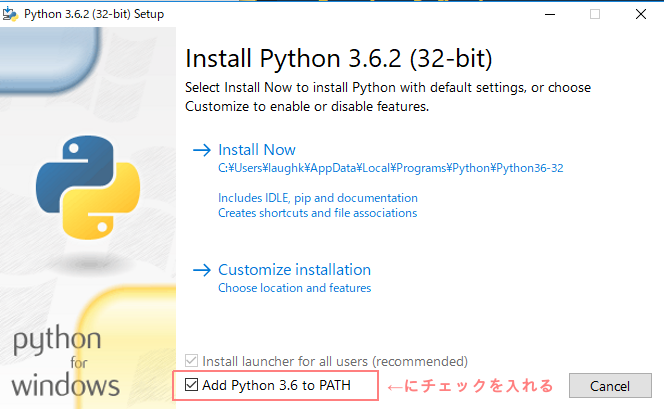
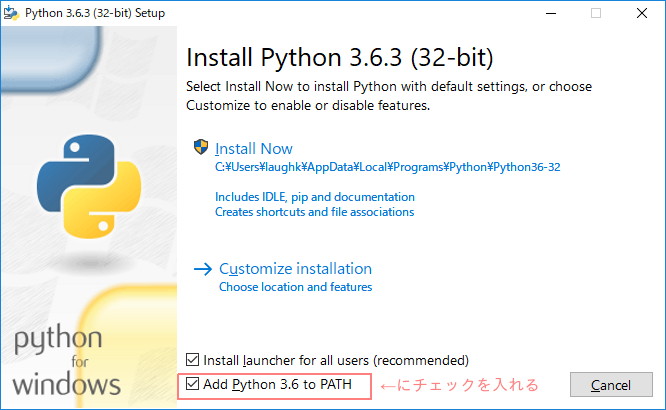
2017-10-16 時点での最新バージョンの情報に更新

diff --git a/1_python_basics.md b/1_python_basics.md
@@ -3,7 +3,7 @@
 ## インストール
 
 https://www.python.org/downloads/ にインストーラがあるのでそれを使ってインストールします。
-現在(2017/5/17)の最新はPython3.6.1です。
+現在(2017/10/16)の最新はPython3.6.3です。
 
 Windows環境の方は環境変数を設定してください。
 この辺が参考になるかも。

diff --git a/0_preparation.md b/0_preparation.md
@@ -7,7 +7,7 @@
 
 ## Pythonをインストール
 
-* Python 3.6.2 をダウンロードしてインストールしてください
+* Python 3.6.3 をダウンロードしてインストールしてください
 
   * https://www.python.org/downloads/
 
